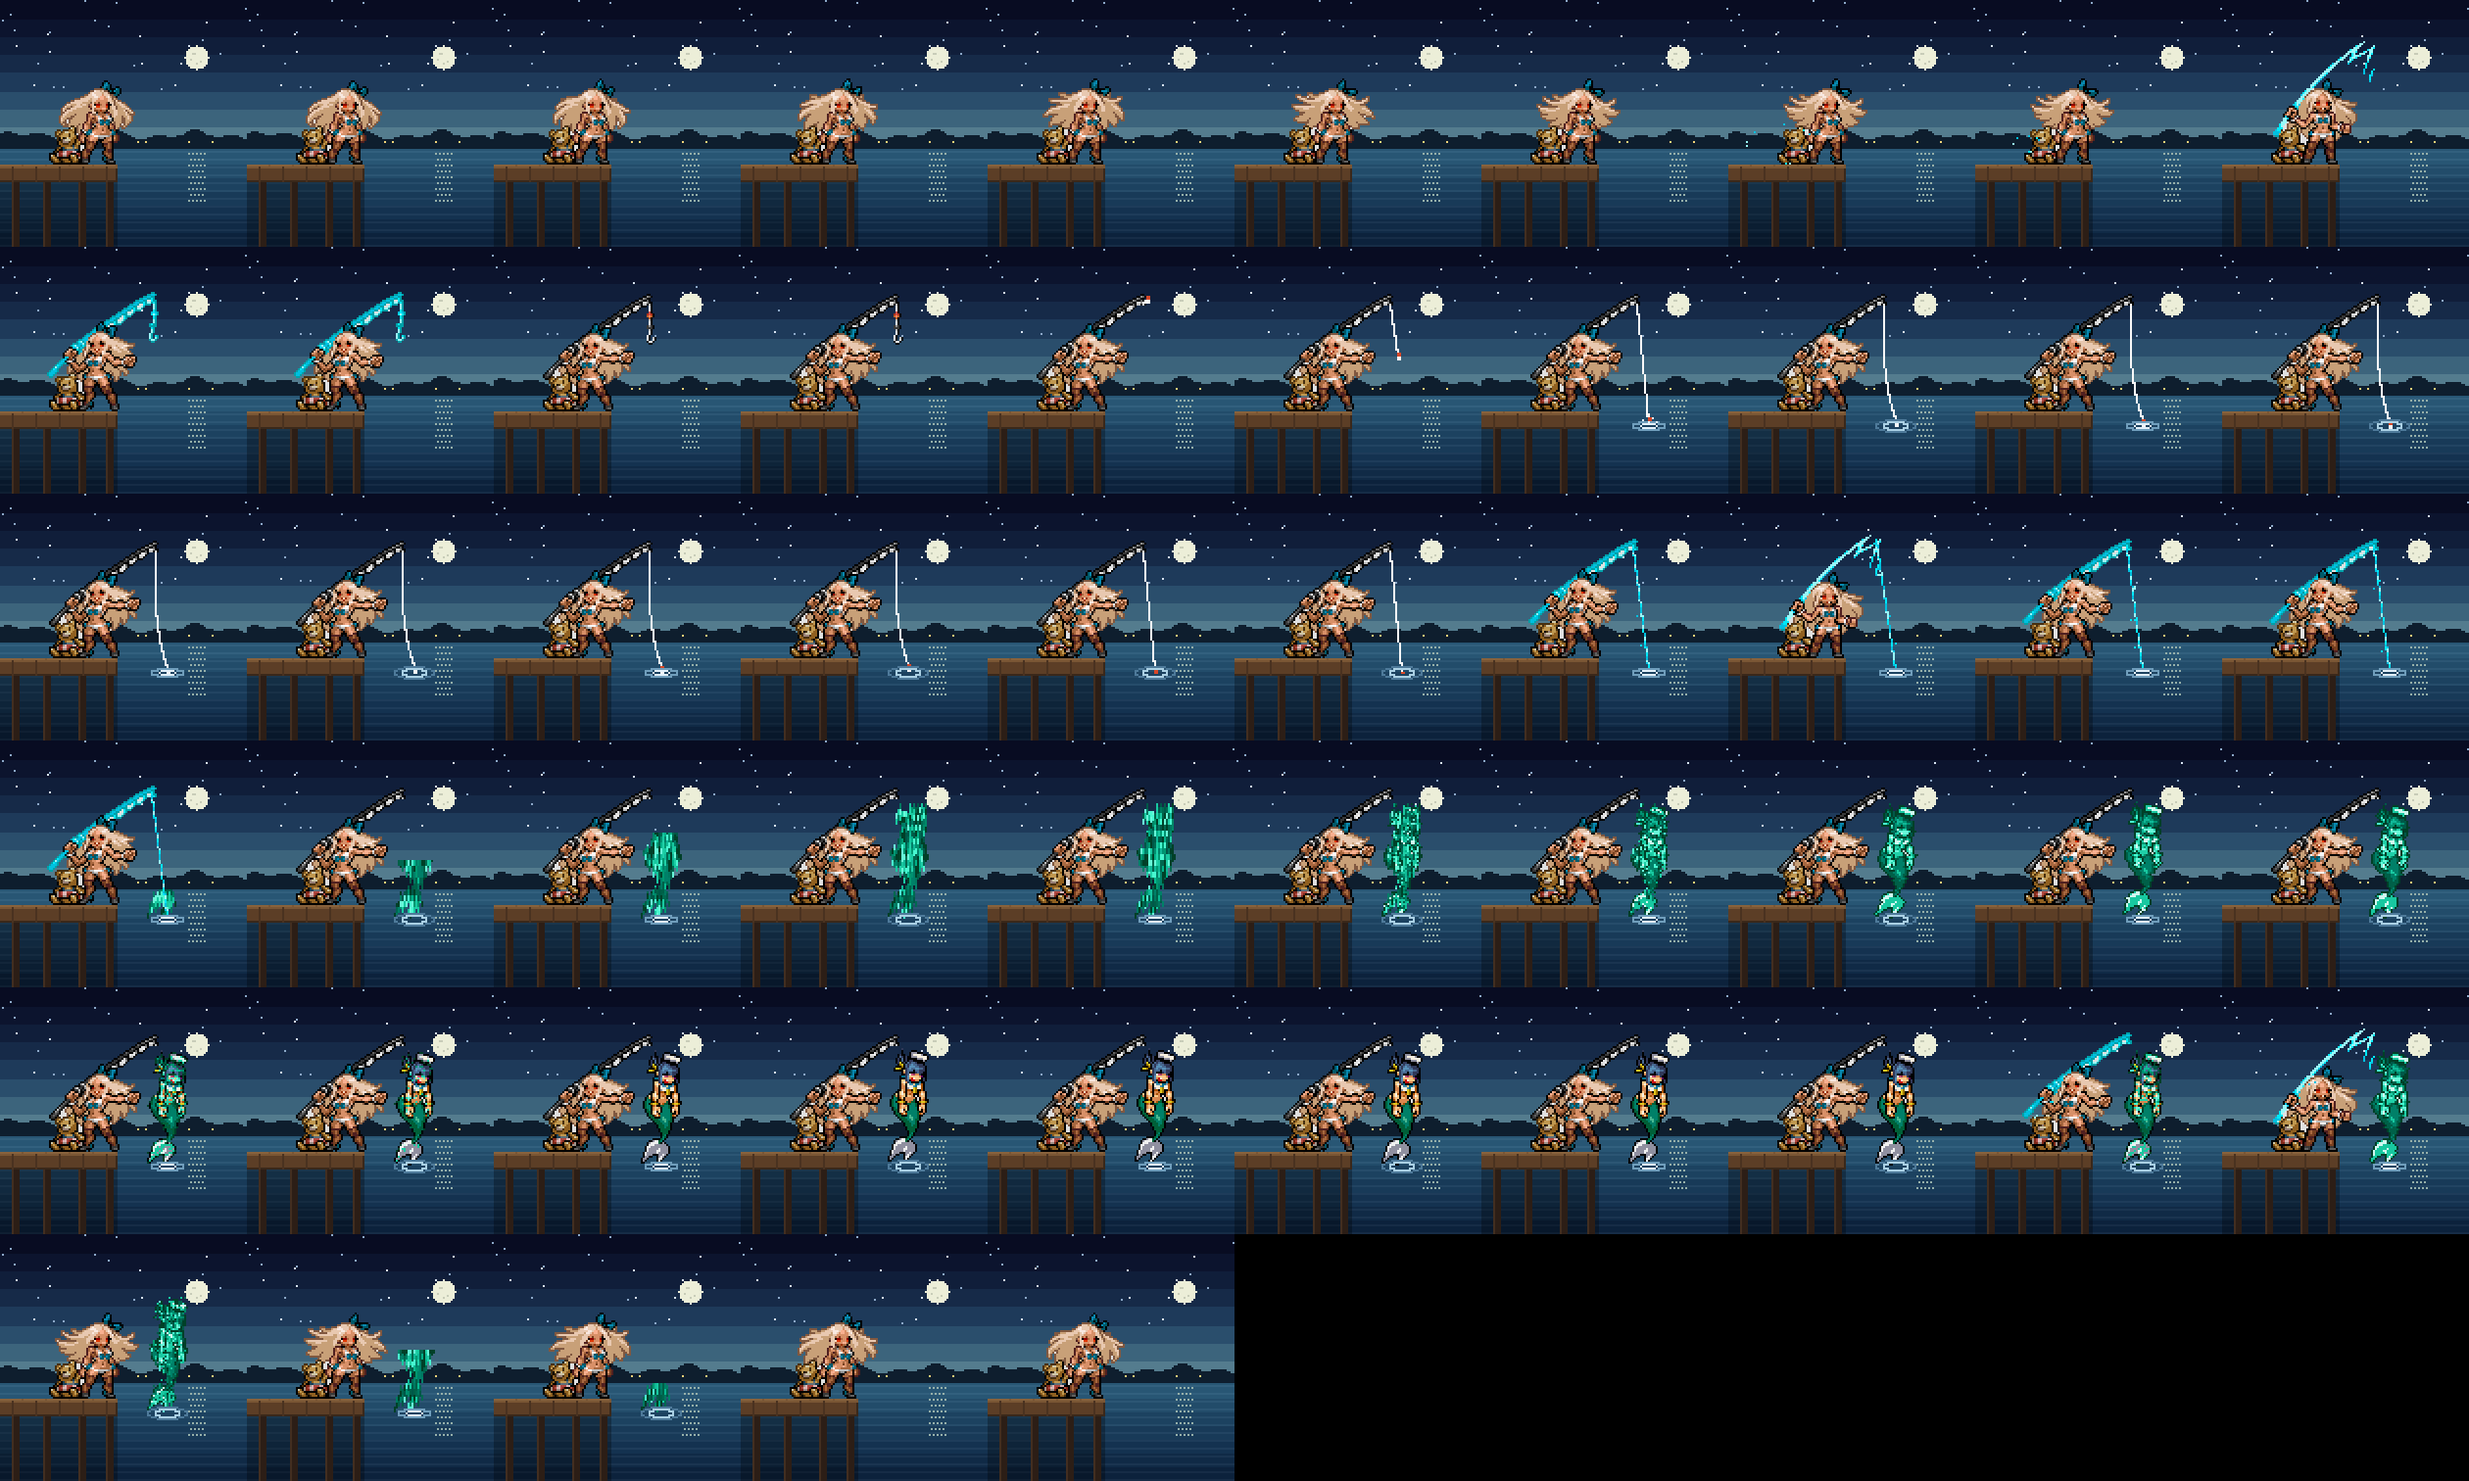
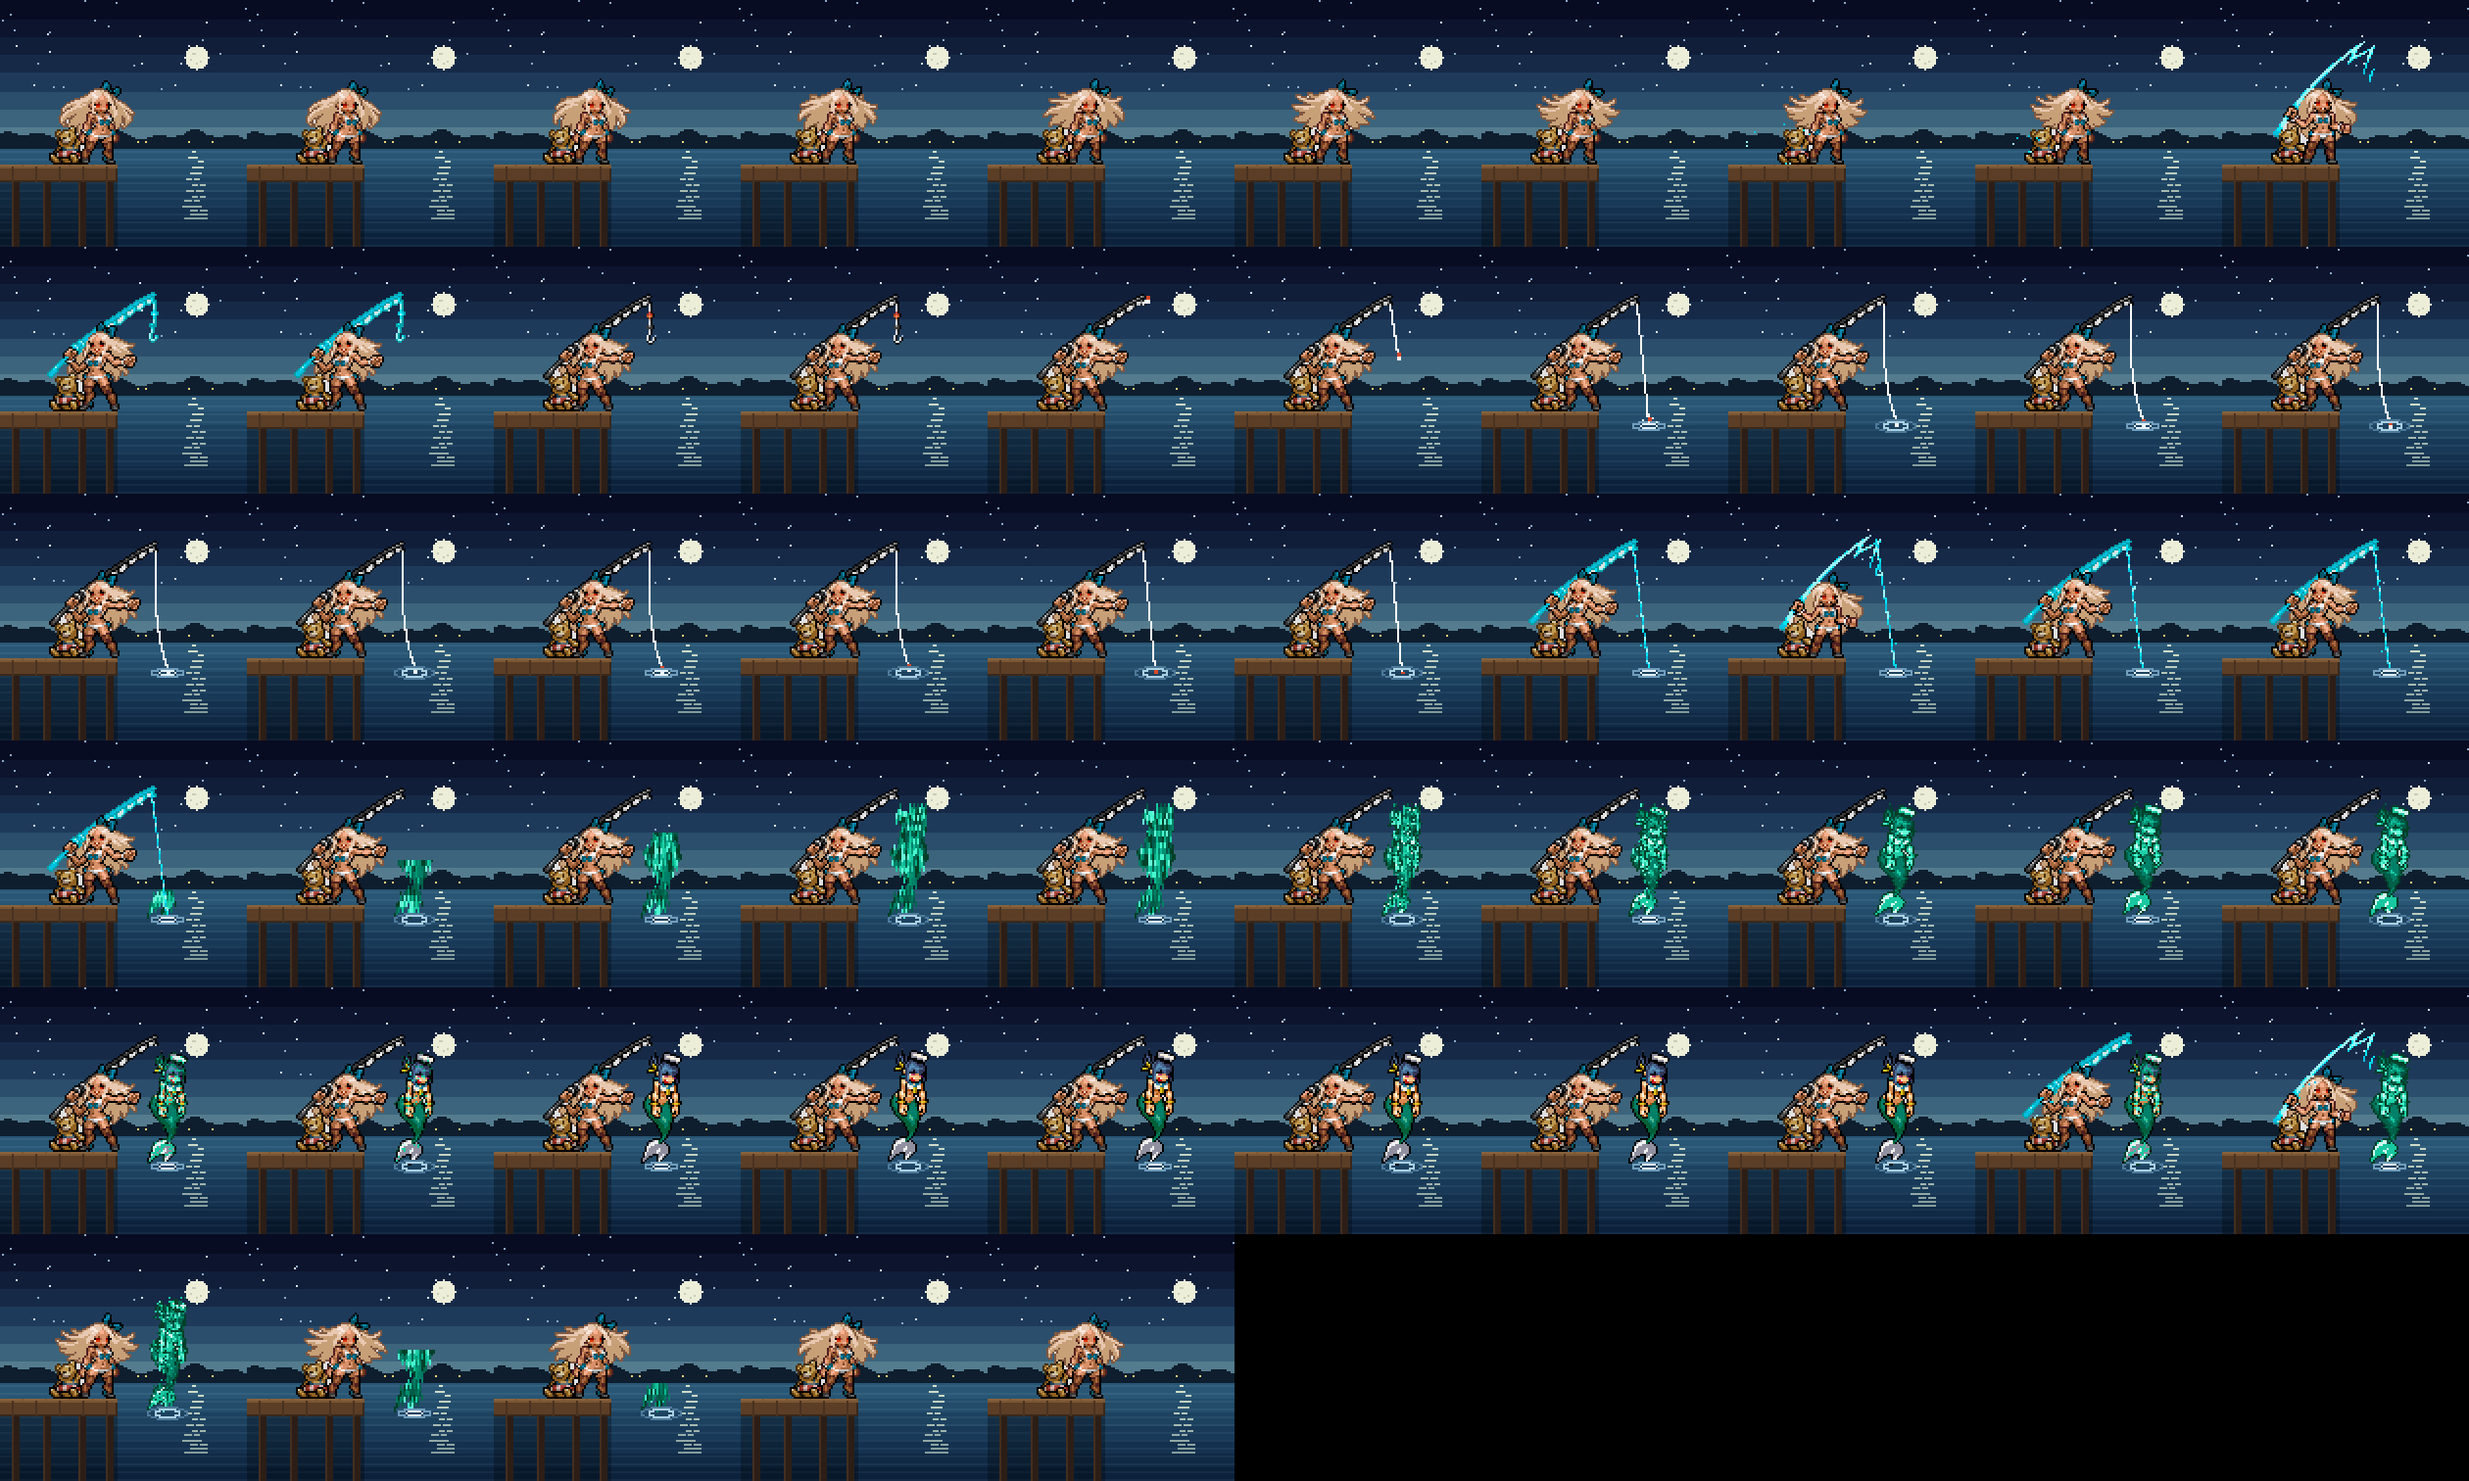
White Baby: moon-glitter water reflection in the background (replaces the dotted reflection); regenerated all GIFs and layers

diff --git a/white_baby/pesca.py b/white_baby/pesca.py
@@ -97,7 +97,7 @@ def cargar():
 
 
 # ====================================================================== fondo
-def fondo(estilo="actual"):
+def fondo(estilo="luna"):
     """Fondo estático. estilo: 'actual' (puntos bajo la luna), 'sin' (agua sin reflejo), 'luna' (reflejo de luna), 'faro' (faro en la orilla con su reflejo)."""
     a = np.zeros((N, N, 3), np.uint8)
     cielo = [(8, 12, 34), (12, 20, 46), (16, 30, 58), (22, 42, 72), (30, 58, 90), (42, 78, 108), (60, 100, 124), (84, 124, 142)]
